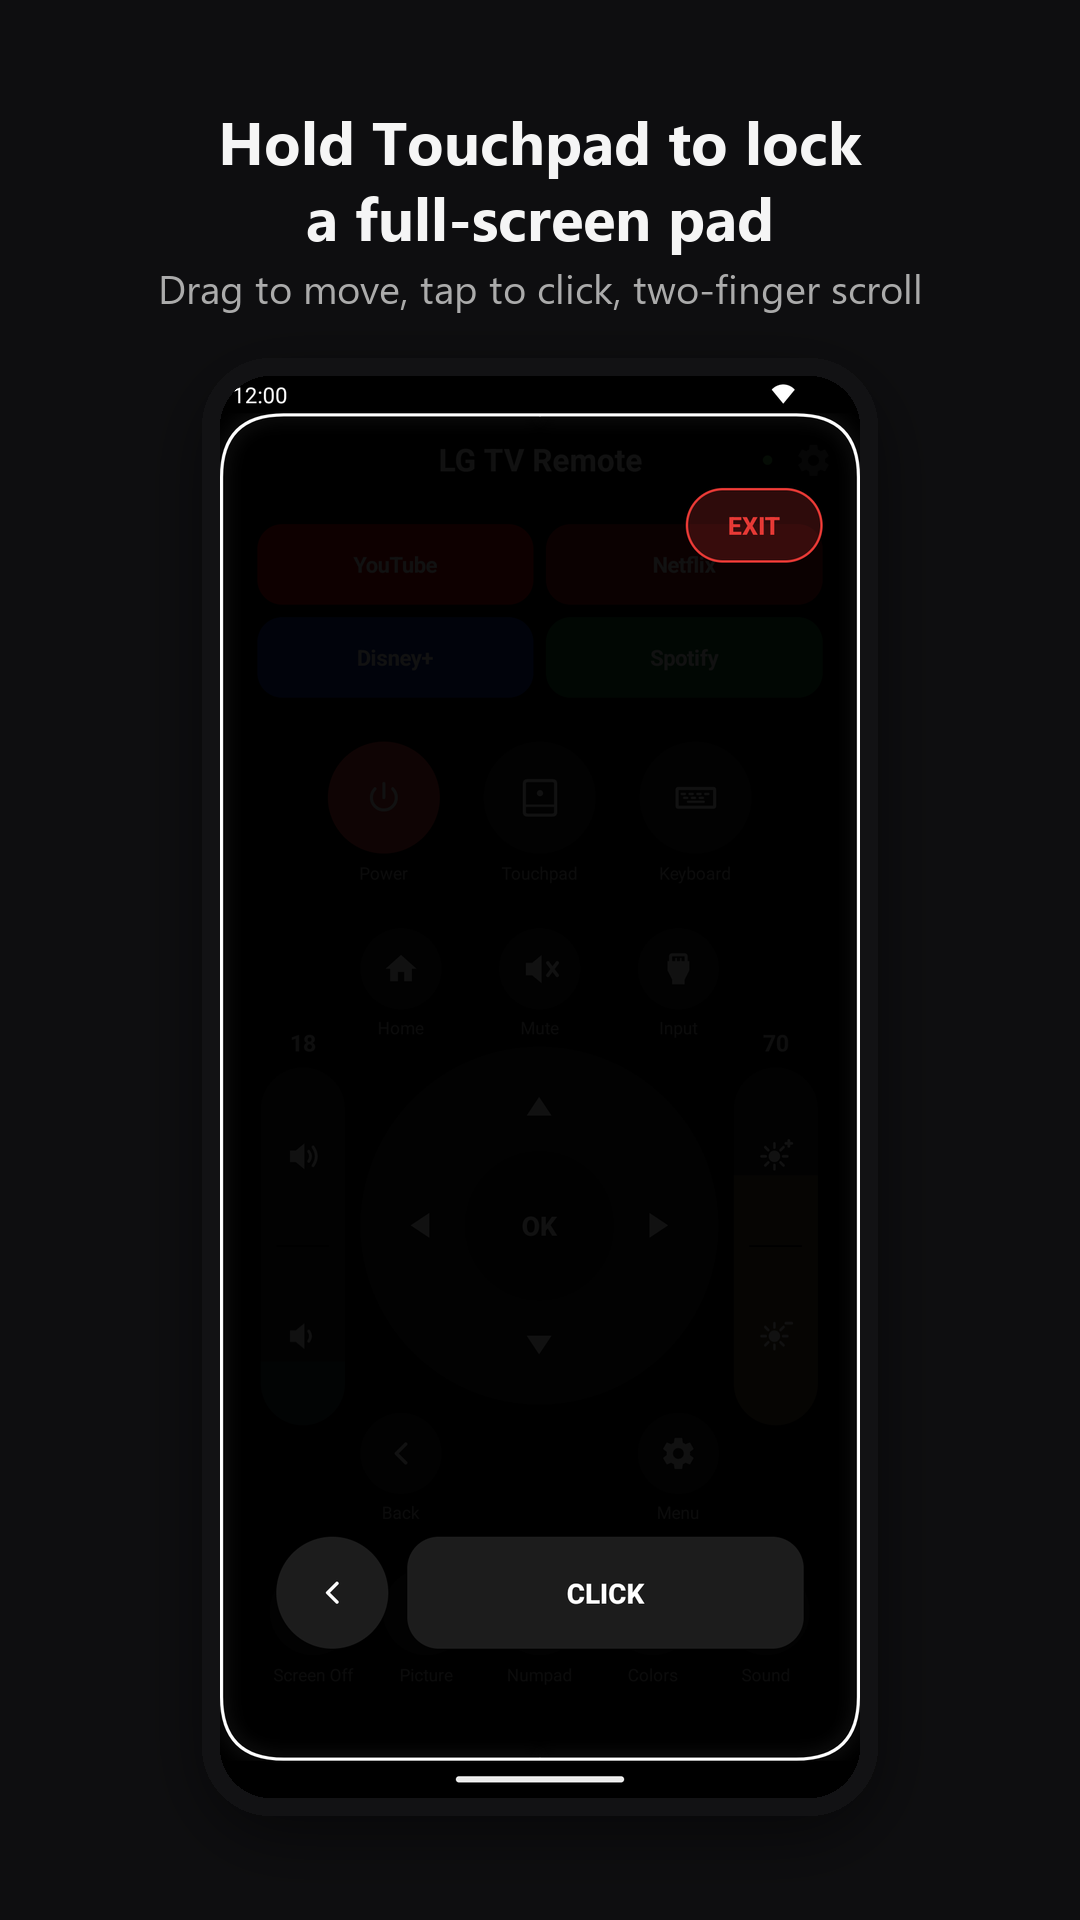
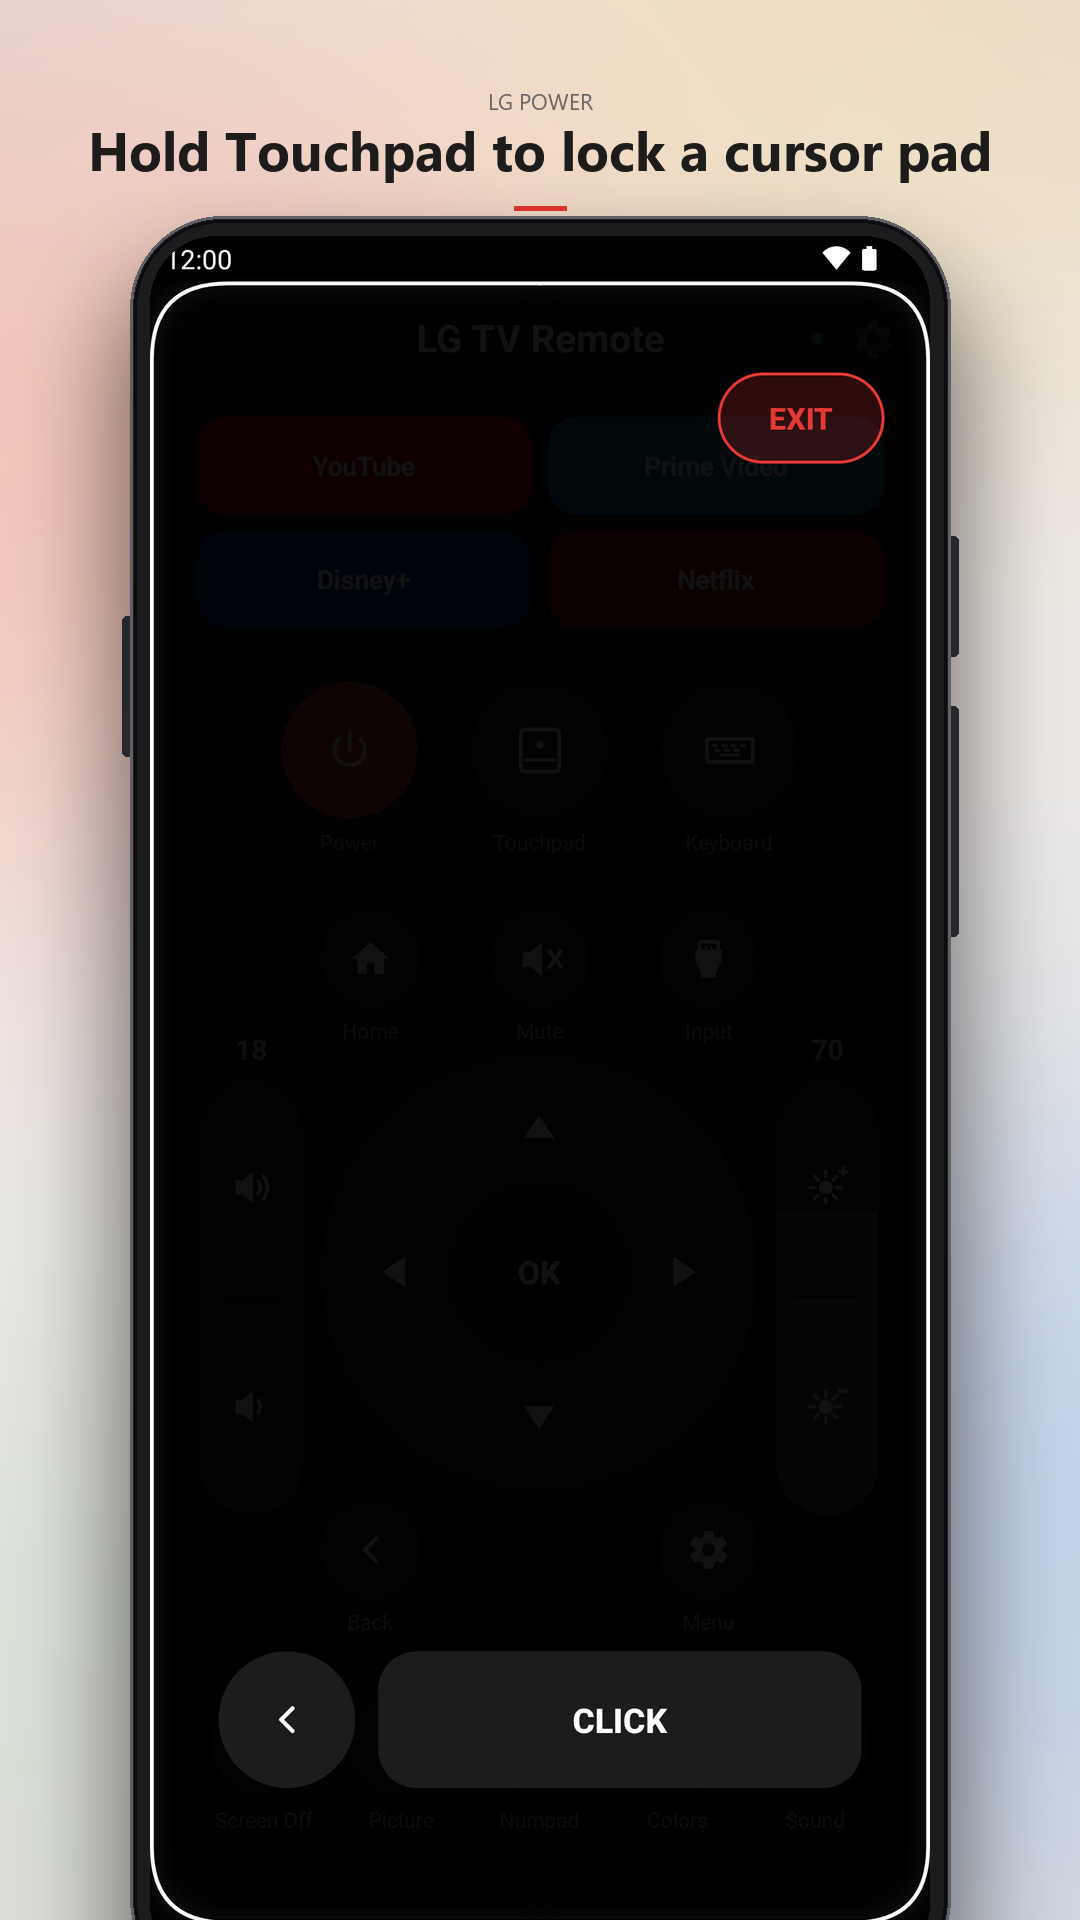
Play screenshots restyled to match the tour video
Pastel background, graphite bezel, one phone per frame, real shortcut
icons and the dark keyboard. _frame.py reuses the background and bezel
from tools/faketv/produce.py so the two stay in sync.

diff --git a/store/screenshots/_frame.py b/store/screenshots/_frame.py
@@ -1,93 +1,53 @@
-"""Compose raw 1080x2400 emulator captures into 1080x1920 Play screenshots.
+"""Compose raw 1080x2400 captures into 1080x1920 Play screenshots in the video's look:
+pastel background, graphite bezel, one big phone, caption with an accent underline.
 
-Usage: python frame.py <raw_dir> <out_dir>
-Reads <raw_dir>/captions.json: list of {out, images:[raw names], caption, sub, bg, fg}.
+Usage: python frame_v2.py <raw_dir> <out_dir>   (reads <raw_dir>/captions.json: [{out, image, caption, sub}])
 """
-import json, sys, os
-from PIL import Image, ImageDraw, ImageFont, ImageFilter
+import importlib.util, json, os, sys
+from PIL import Image, ImageDraw, ImageFont
 
-W, H = 1080, 1920
-FONT = r"C:\Windows\Fonts\segoeuib.ttf"
-FONT_SUB = r"C:\Windows\Fonts\segoeui.ttf"
-
-
-def rounded(img, radius):
-    mask = Image.new("L", img.size, 0)
-    ImageDraw.Draw(mask).rounded_rectangle([0, 0, img.size[0] - 1, img.size[1] - 1], radius, fill=255)
-    out = img.convert("RGBA")
-    out.putalpha(mask)
-    return out
+SC = os.path.dirname(os.path.abspath(__file__))
+ARGS = sys.argv[1:]
+spec = importlib.util.spec_from_file_location("produce", os.path.join(SC, "produce.py"))
+sys.argv = ["produce.py", os.path.join(SC, "tour_raw.mp4")]
+produce = importlib.util.module_from_spec(spec); spec.loader.exec_module(produce)
+W, H, PW, PH, PX, PY = produce.W, produce.H, produce.PW, produce.PH, produce.PX, produce.PY
+INK, MUTED, RED = (30, 27, 27), (107, 100, 101), (217, 52, 43)
 
 
-def phone(raw, target_w, radius=64, bezel_pad=22):
-    scale = target_w / raw.width
-    ph = int(raw.height * scale)
-    scr = raw.resize((target_w, ph), Image.LANCZOS)
-    bz = Image.new("RGBA", (target_w + 2 * bezel_pad, ph + 2 * bezel_pad), (0, 0, 0, 0))
-    ImageDraw.Draw(bz).rounded_rectangle([0, 0, bz.width - 1, bz.height - 1], radius + bezel_pad, fill=(18, 18, 20, 255))
-    scr = rounded(scr, radius)
-    bz.paste(scr, (bezel_pad, bezel_pad), scr)
-    return bz
+def font(bold, size):
+    return ImageFont.truetype(r"C:\Windows\Fonts\segoeuib.ttf" if bold else r"C:\Windows\Fonts\segoeui.ttf", size)
 
 
-def paste_with_shadow(canvas, im, x, y):
-    shadow = Image.new("RGBA", (im.width + 160, im.height + 160), (0, 0, 0, 0))
-    ImageDraw.Draw(shadow).rounded_rectangle([80, 100, 80 + im.width, 100 + im.height], 80, fill=(0, 0, 0, 120))
-    shadow = shadow.filter(ImageFilter.GaussianBlur(30))
-    canvas.paste(shadow, (x - 80, y - 80), shadow)
-    canvas.paste(im, (x, y), im)
+def build_static():
+    bg = os.path.join(SC, "prod_bg.png"); bz = os.path.join(SC, "prod_bezel.png"); mk = os.path.join(SC, "prod_mask.png")
+    produce.background(bg); produce.bezel(bz); produce.screen_mask(mk)
+    big = Image.open(bg).convert("RGB")
+    ox, oy = (produce.BW - W) // 2, (produce.BH - H) // 2
+    base = big.crop((ox, oy, ox + W, oy + H))
+    return base, Image.open(bz).convert("RGBA"), Image.open(mk).convert("L")
 
 
-def frame(spec, raw_dir, out_path):
-    bg, fg = tuple(spec["bg"]), tuple(spec["fg"])
-    canvas = Image.new("RGB", (W, H), bg)
+def frame(raw_path, caption, sub, out_path, base, bezel, mask, shift=0):
+    canvas = base.copy()
+    canvas.paste(bezel, (0, 0), bezel)
+    scr = Image.open(raw_path).convert("RGB").resize((PW, PH), Image.LANCZOS)
+    canvas.paste(scr, (PX, PY), mask)
     d = ImageDraw.Draw(canvas)
-    f1 = ImageFont.truetype(FONT, 60)
-    f2 = ImageFont.truetype(FONT_SUB, 40)
-    y = 100
-    for line in spec["caption"].split("\n"):
-        w = d.textlength(line, font=f1)
-        d.text(((W - w) / 2, y), line, font=f1, fill=fg)
-        y += 76
-    sub = spec.get("sub", "")
-    if sub:
-        w = d.textlength(sub, font=f2)
-        muted = tuple(int(c * 0.7 + (255 - c) * 0.0) if sum(bg) < 300 else int(c + (128 - c) * 0.5) for c in fg)
-        d.text(((W - w) / 2, y + 8), sub, font=f2, fill=muted)
-        y += 56
-    top = y + 50
-    raws = [Image.open(os.path.join(raw_dir, n + ".png")).convert("RGB") for n in spec["images"]]
-    if len(raws) == 1:
-        ph = phone(raws[0], 640, radius=50, bezel_pad=18)
-        paste_with_shadow(canvas, ph, (W - ph.width) // 2, top)
-    elif spec.get("layout") == "row":
-        # three phones side by side, no overlap, for screens whose content sits low
-        phones = [phone(r, 344, radius=32, bezel_pad=10) for r in raws]
-        gap = (W - sum(p.width for p in phones)) // 4
-        x = gap
-        ptop = top + max(0, (H - top - phones[0].height) // 2 - 60)
-        for p in phones:
-            paste_with_shadow(canvas, p, x, ptop)
-            x += p.width + gap
-    else:
-        # fan of three: middle one in front, sides tucked behind and lower
-        mid = phone(raws[1], 560, radius=44, bezel_pad=16)
-        side_l = phone(raws[0], 500, radius=40, bezel_pad=14)
-        side_r = phone(raws[2], 500, radius=40, bezel_pad=14)
-        paste_with_shadow(canvas, side_l, 20, top + 90)
-        paste_with_shadow(canvas, side_r, W - 20 - side_r.width, top + 90)
-        paste_with_shadow(canvas, mid, (W - mid.width) // 2, top)
+    f1, f0 = font(True, 54), font(False, 22)
+    w = d.textlength("LG POWER", font=f0); d.text(((W - w) / 2, 86), "LG POWER", font=f0, fill=MUTED)
+    w = d.textlength(caption, font=f1); d.text(((W - w) / 2, 112), caption, font=f1, fill=INK)
+    d.rectangle([(W - 52) / 2, 206, (W + 52) / 2, 210], fill=RED)
     canvas.save(out_path, optimize=True)
 
 
 def main(raw_dir, out_dir):
     os.makedirs(out_dir, exist_ok=True)
-    specs = json.load(open(os.path.join(raw_dir, "captions.json"), encoding="utf8"))
-    for spec in specs:
-        out = os.path.join(out_dir, spec["out"] + ".png")
-        frame(spec, raw_dir, out)
-        print("framed", spec["out"])
+    base, bezel, mask = build_static()
+    for spec_ in json.load(open(os.path.join(raw_dir, "captions.json"), encoding="utf8")):
+        frame(os.path.join(raw_dir, spec_["image"] + ".png"), spec_["caption"], spec_.get("sub", ""), os.path.join(out_dir, spec_["out"] + ".png"), base, bezel, mask)
+        print("framed", spec_["out"])
 
 
 if __name__ == "__main__":
-    main(sys.argv[1], sys.argv[2])
+    main(ARGS[0], ARGS[1])
